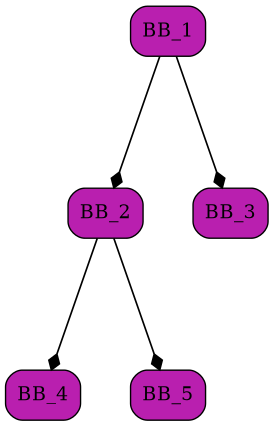
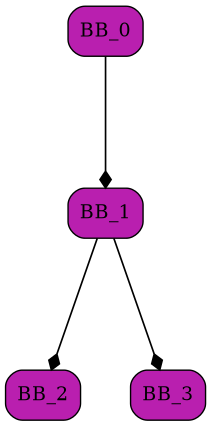
fixed CFG generating

diff --git a/include/graph_generator.hpp b/include/graph_generator.hpp
@@ -34,7 +34,7 @@ public:
     if (EdgeNum > NodeNum)
       EdgeNum = 1;
 
-    if (NodeNum == 0 || NodeNum > MaxNodesNum)
+    if (NodeNum < 2 || NodeNum > MaxNodesNum)
       NodeNum = DefNodesNum;
 
     if (EdgeNum > MaxEdgeNum)
@@ -47,9 +47,12 @@ public:
     std::vector<std::vector<size_type>> Graph(NodeNum);
     std::set<size_type> FreeNodes;
     std::generate_n(std::inserter(FreeNodes, FreeNodes.end()), NodeNum - 1,
-                    [&FreeNodes] { return FreeNodes.size() + 2; });
+                    [&FreeNodes] { return FreeNodes.size() + 1; });
     // Making tree graph
-    for (size_type NodeCount = 1; NodeCount <= Graph.size(); ++NodeCount) {
+    printEdge(OutFile, std::string(NodeName) + "_", 0, 1);
+    Graph[0].push_back(1);
+    FreeNodes.erase(FreeNodes.begin());
+    for (size_type NodeCount = 1; NodeCount < Graph.size(); ++NodeCount) {
       if (FreeNodes.empty())
         break;
       auto SuccessorsNum = getRandomUnsInt(Engine, 1, EdgeNum);
@@ -64,7 +67,7 @@ public:
       }
     }
     // Adding random edges (having high possibility to make loops)
-    std::vector<size_type> AllNodes(NodeNum);
+    std::vector<size_type> AllNodes(NodeNum - 1);
     std::iota(AllNodes.begin(), AllNodes.end(), 1);
     for (size_type NodeCount = 1; NodeCount < Graph.size(); ++NodeCount) {
       if (size_type EdgeCount = Graph[NodeCount].size(); EdgeCount < EdgeNum) {
@@ -74,10 +77,11 @@ public:
                             Graph[NodeCount].begin(), Graph[NodeCount].end(),
                             std::back_inserter(Diff));
         std::erase(Diff, NodeCount);
-        for (EdgeCount = 0; EdgeCount < AddEdgesCount; ++EdgeCount) {
+        for (EdgeCount = 0; EdgeCount < AddEdgesCount && !Diff.empty(); ++EdgeCount) {
           auto CellId = getRandomUnsInt(Engine, 0, Diff.size() - 1);
           auto NodeTo = Diff[CellId];
-          printEdge(OutFile, std::string(NodeName) + "_", NodeCount, NodeTo);
+          if (NodeCount != NodeTo)
+            printEdge(OutFile, std::string(NodeName) + "_", NodeCount, NodeTo);
           Diff.erase(Diff.begin() + CellId);
         }
       }
